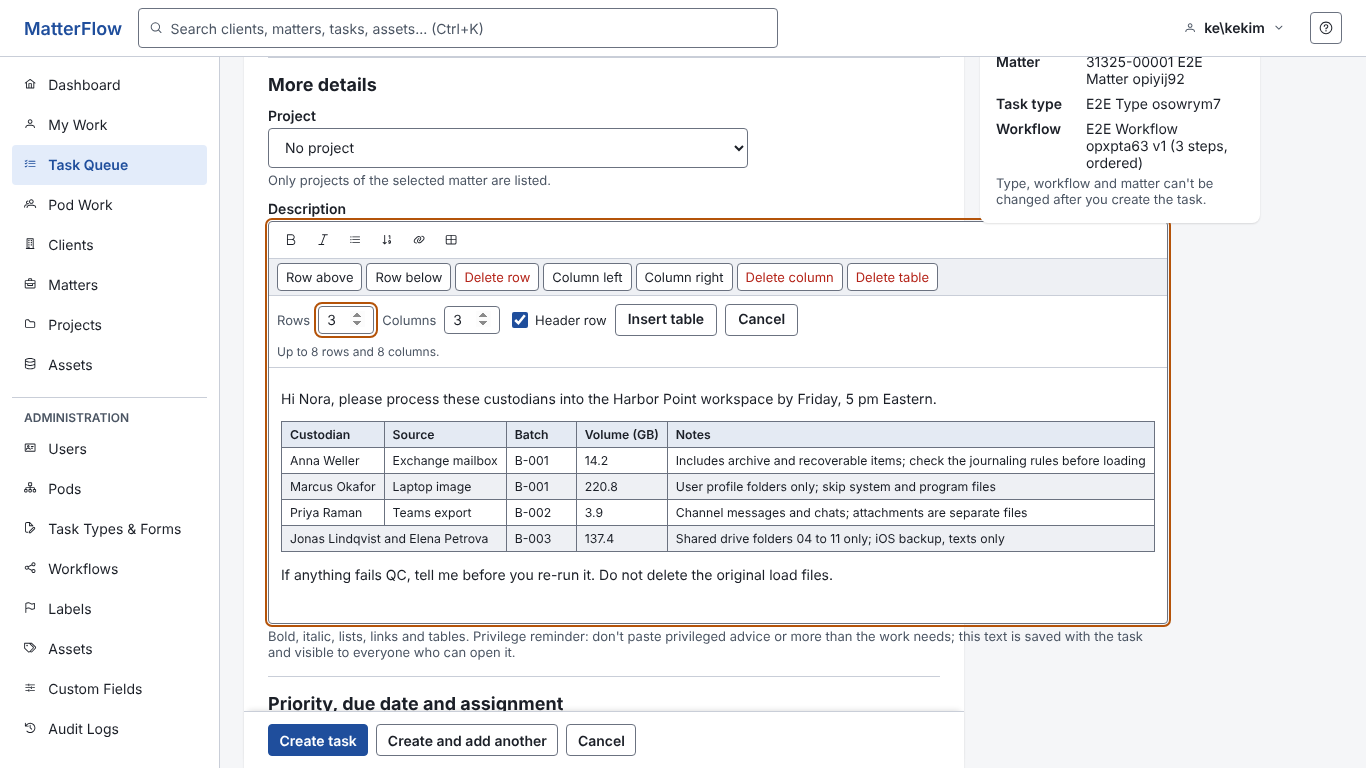
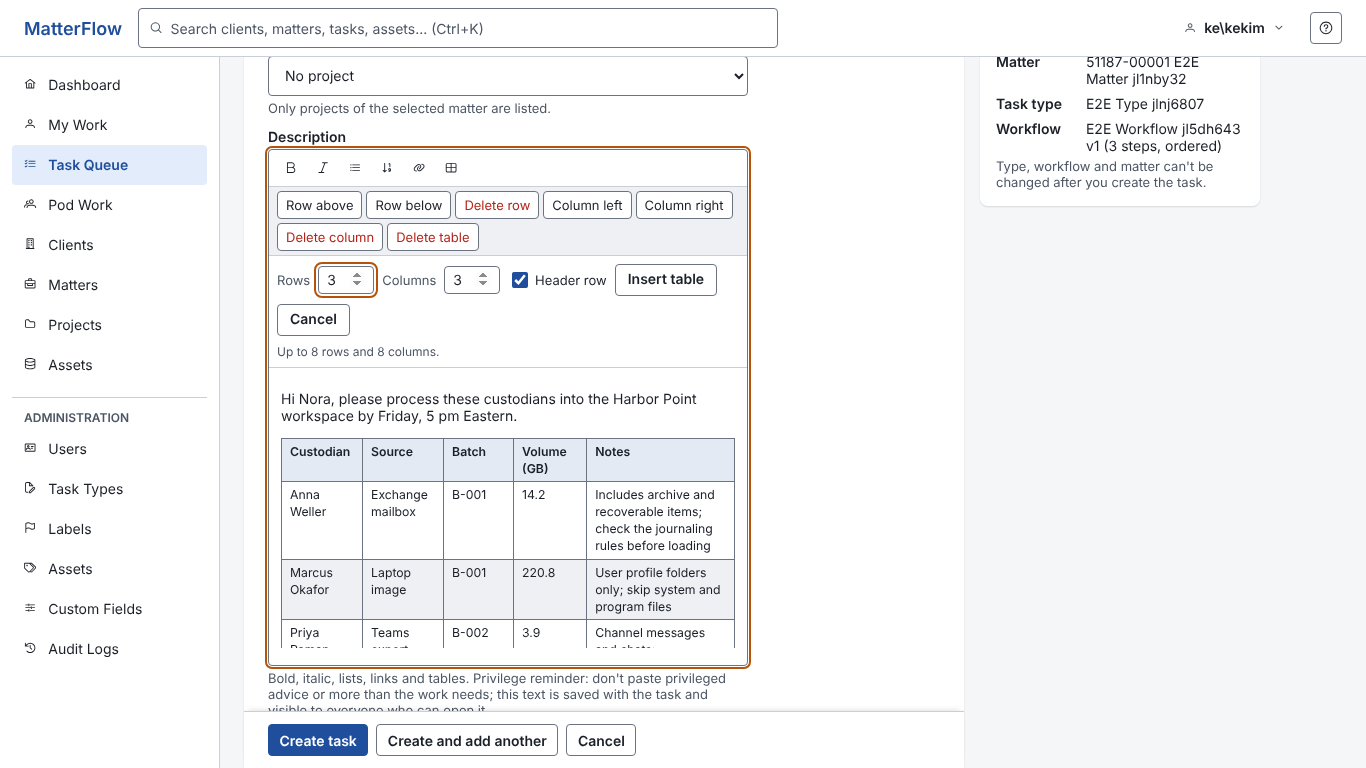
Rich description: editor and read-view tables never widen the form (inline-size containment), description field uses the dialog width, final screenshots
- The editable area is the scrolling, focusable box of a wide table (axe scrollable-region-focusable at 375 px in Create and Edit).
- e2e: a wide table pasted at 375 px adds nothing to the page width; screenshot run waits for the phone's Details disclosure.

Claude-Session: https://claude.ai/code/session_01GjQ3L6gEego4PwsSfbngaa

diff --git a/frontend/e2e/tests/rich-description.spec.ts b/frontend/e2e/tests/rich-description.spec.ts
@@ -29,6 +29,18 @@ const OUTLOOK_TABLE = `<html xmlns:o="urn:schemas-microsoft-com:office:office"><
 <tr><td colspan=2 style='background:yellow'>Marcus Okafor and Priya Raman (merged)</td></tr>
 </table><!--EndFragment--></body></html>`;
 
+/** A wide table as Outlook would put it on the clipboard. */
+function wideTable(columns: number, rows: number): string {
+  const cell = (tag: string, text: string): string => `<${tag}>${text}</${tag}>`;
+  const head = `<tr>${Array.from({ length: columns }, (_, c) => cell('th', `Column ${c + 1}`)).join('')}</tr>`;
+  const body = Array.from(
+    { length: rows },
+    (_, r) =>
+      `<tr>${Array.from({ length: columns }, (_, c) => cell('td', `Row ${r + 1} value ${c + 1} with a longer text`)).join('')}</tr>`,
+  ).join('');
+  return `<table>${head}${body}</table>`;
+}
+
 const HOSTILE = `<p onclick="window.__pwn=1">Hostile<script>window.__pwn=2</script><img src=x onerror="window.__pwn=3"></p>
 <table style="position:fixed;top:0;left:0;width:100%;height:100%"><tr><td onmouseover="window.__pwn=4" colspan="2 onclick=window.__pwn=5"><svg><style><a title="</style><img src onerror=window.__pwn=6>"></svg>cell</td></tr></table>
 <a href="javascript:window.__pwn=7">js link</a><iframe srcdoc="<script>window.__pwn=8</script>"></iframe><form action="javascript:1"><input></form>`;
@@ -148,6 +160,46 @@ test.describe('Rich text description with tables (issue #80)', () => {
     await expect(page.locator('[data-description]')).toContainText('Hostile');
     expect(await pwned(page)).toBeUndefined();
     expect(dialogs).toEqual([]);
+  });
+
+  test('a wide table pasted into the Create task form scrolls inside the editor and does not widen the page (375 px)', async ({
+    page,
+    seed,
+  }) => {
+    await page.setViewportSize({ width: 375, height: 812 });
+    const world = await seed.world();
+    const create = new CreateTaskPage(page);
+    await create.open(`?taskType=${world.taskType.id}`);
+    await create.fillBasics({
+      matterRef: world.matter.matterRef,
+      taskType: world.taskType.name,
+      title: 'Wide table',
+    });
+    const measure = (): Promise<{
+      page: number;
+      editorRight: number;
+      formRight: number;
+      scrolls: boolean;
+    }> =>
+      page.evaluate(() => {
+        const area = document.querySelector<HTMLElement>(
+          '[data-description-field] [role=textbox]',
+        )!;
+        return {
+          page: document.documentElement.scrollWidth,
+          editorRight: area.getBoundingClientRect().right,
+          formRight: document.querySelector('form.ct__form')!.getBoundingClientRect().right,
+          scrolls: area.scrollWidth > area.clientWidth,
+        };
+      });
+    // The page may already be a little wider than a phone (not this feature's doing); the table must not add to it.
+    const before = await measure();
+    await pasteInto(page, EDITOR, wideTable(12, 4), 'plain text fallback');
+    await expect(create.description.locator('table')).toHaveCount(1);
+    const after = await measure();
+    expect(after.page).toBeLessThanOrEqual(before.page);
+    expect(after.editorRight).toBeLessThanOrEqual(after.formRight);
+    expect(after.scrolls).toBe(true);
   });
 
   test('classic mXSS payloads sent straight to the API never run in the browser', async ({

diff --git a/frontend/src/app/features/tasks/panels/rich-text-editor.ts b/frontend/src/app/features/tasks/panels/rich-text-editor.ts
@@ -221,6 +221,7 @@ type RichTools = typeof import('./rich-tools');
   styles: `
     :host {
       display: block;
+      min-width: 0;
     }
     .rte {
       position: relative;
@@ -342,6 +343,9 @@ type RichTools = typeof import('./rich-tools');
     }
     .rte__area {
       position: relative;
+      /* A wide table scrolls inside the area and must not count towards the width of the form around it (inline-size containment). */
+      contain: inline-size;
+      min-width: 0;
       min-height: 6rem;
       max-height: 20rem;
       overflow: auto;
@@ -367,8 +371,13 @@ type RichTools = typeof import('./rich-tools');
     .rte__area a {
       color: var(--mf-link);
     }
-    .rte__area table {
+    /* The editable area is the scrolling, focusable box of a wide table (the table inside it does not scroll on its own): the keyboard can reach it. */
+    :host ::ng-deep .rte__area table {
+      display: table;
+      width: auto;
+      max-width: none;
       margin-bottom: var(--mf-s2);
+      overflow: visible;
     }
     .rte__foot {
       display: flex;

diff --git a/frontend/e2e/tests/rich-description-screens.spec.ts b/frontend/e2e/tests/rich-description-screens.spec.ts
@@ -97,10 +97,12 @@ test.describe('rich description screenshots', () => {
       // 2. The saved task: the table in the Details panel (and the whole page on a phone).
       const taskId = await create.create();
       const detail = new TaskDetailPage(page);
-      // On a phone the Details panel starts collapsed.
-      const toggle = page.locator('[data-detail-toggle]');
-      if ((await toggle.count()) > 0 && (await toggle.getAttribute('aria-expanded')) === 'false') {
-        await toggle.click();
+      // On a phone the Details panel starts collapsed behind a disclosure button.
+      if (size.width < 700) {
+        const toggle = page.locator('[data-detail-toggle]');
+        await toggle.waitFor();
+        if ((await toggle.getAttribute('aria-expanded')) === 'false') await toggle.click();
+        await expect(toggle).toHaveAttribute('aria-expanded', 'true');
       }
       await expect(page.locator('[data-description] table')).toBeVisible();
       await shoot(page, `details-${size.name}`);

diff --git a/frontend/src/app/features/tasks/detail/task-details-tab.ts b/frontend/src/app/features/tasks/detail/task-details-tab.ts
@@ -228,7 +228,7 @@ const toNumber = (v: string): number | null => (v === '' ? null : Number(v));
               }
             </div>
 
-            <div class="mf-field">
+            <div class="mf-field dt__rich">
               <span class="mf-field__label" id="td-description-label">Description</span>
               <mf-rich-text-editor
                 label="Description"
@@ -500,6 +500,11 @@ const toNumber = (v: string): number | null => (v === '' ? null : Number(v));
     .dt__form {
       display: grid;
       gap: var(--mf-s4);
+    }
+    /* The description editor holds tables: it uses the width of the dialog (a field is 480px at most) and never widens the form's grid. */
+    .dt__rich {
+      max-width: none;
+      min-width: 0;
     }
     .dt__due,
     .dt__request {

diff --git a/frontend/src/styles/_rich-text.scss b/frontend/src/styles/_rich-text.scss
@@ -26,14 +26,9 @@
   }
 
   .mf-rich__scroll {
-    max-width: 100%;
+    contain: inline-size;
     margin: 0 0 var(--mf-s2);
     overflow-x: auto;
-  }
-
-  .mf-rich__scroll:focus-visible {
-    outline: 2px solid var(--mf-focus, var(--mf-link));
-    outline-offset: 2px;
   }
 
   .mf-rich__scroll > table,
